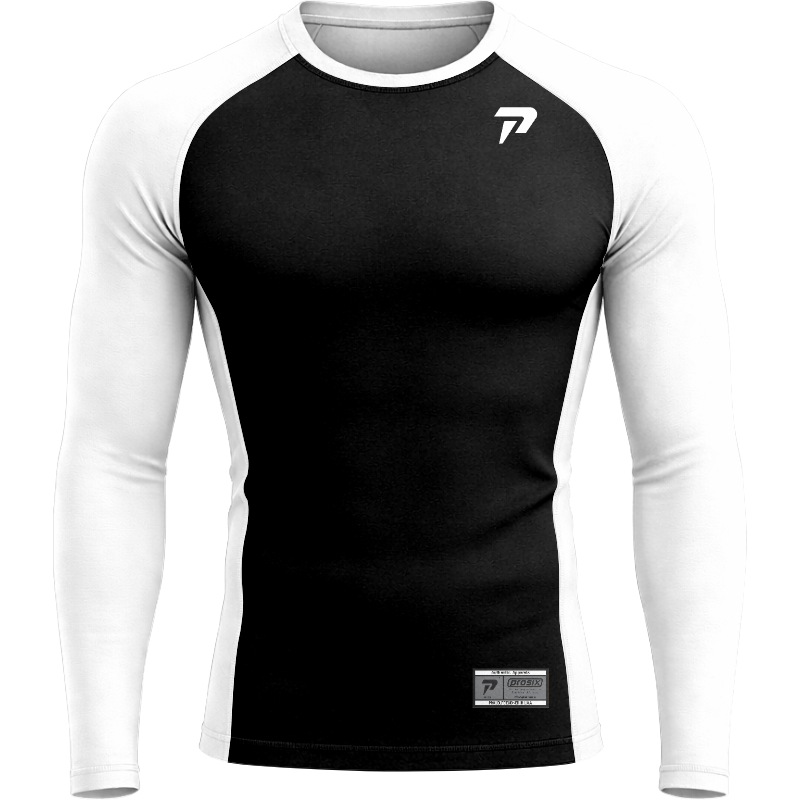
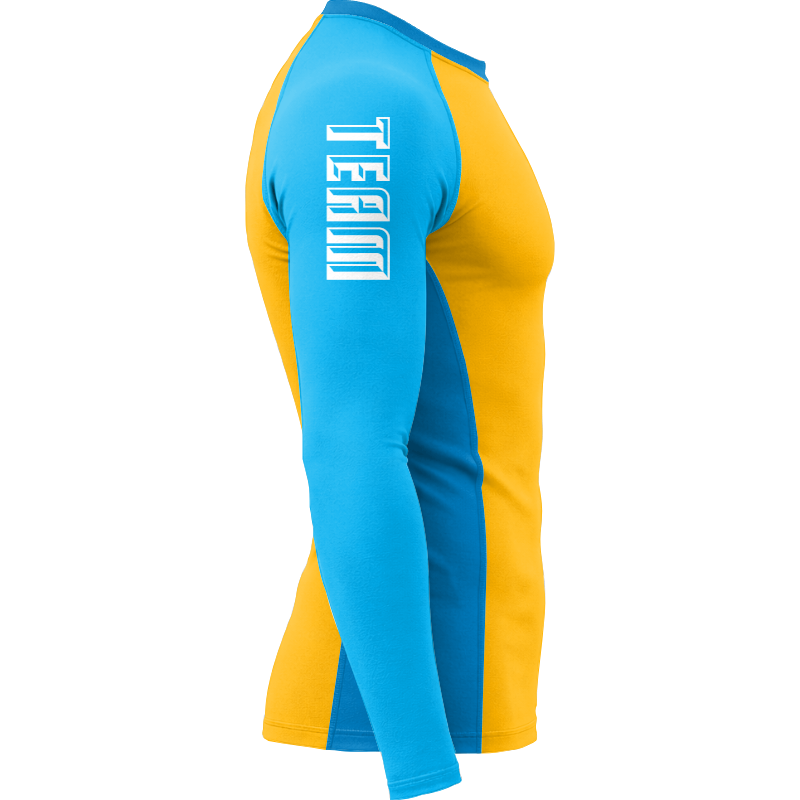
update

diff --git a/public/js/customizer-application.js b/public/js/customizer-application.js
@@ -494,8 +494,11 @@ window.addApplicationToSvg = function (layer) {
     }
     const mainSvg = window.getMainSvg();
     if (!mainSvg) { setTimeout(() => addApplicationToSvg(layer), 300); return; }
-    if (mainSvg.querySelector(`#${layer.id}`)) return;
-
+// Purana element remove karo taake fresh rebuild ho
+const existing = mainSvg.querySelector(`#${layer.id}`);
+const existingGroup = mainSvg.querySelector(`#app-group-${layer.id}`);
+if (existing && existingGroup) return; // already properly built
+if (existingGroup) existingGroup.remove(); // incomplete — rebuild
     let defs = mainSvg.querySelector('defs');
     if (!defs) {
         defs = document.createElementNS('http://www.w3.org/2000/svg', 'defs');
@@ -544,11 +547,14 @@ window.addApplicationToSvg = function (layer) {
     text.setAttribute('paint-order', 'stroke fill');
     text.setAttribute('stroke-linejoin', 'miter');
     text.style.cursor = 'move';
-    text.textContent = layer.text;
+ text.textContent = layer.text;
+if (layer.letterSpacing) text.style.letterSpacing = layer.letterSpacing + 'px';
 
     layerGroup.appendChild(text);
+
+
     makeDraggable(text, layer);
-    text.addEventListener('click', e => { e.stopPropagation(); selectApplicationLayer(layer.id); });
+layerGroup.addEventListener('click', e => { e.stopPropagation(); selectApplicationLayer(layer.id); });
 
     _applyFlipTransform(layer, mainSvg);
 
@@ -940,7 +946,7 @@ gap:10px;
 width:100%;
 padding:8px 10px;
 margin-bottom:6px;
-background:${isActive ? '#5a5a5a' : '#7a7a7a'};
+background:${isActive ? '#383838' : '#858585'};
 color:#fff;
 border:none;
 border-radius:0;
@@ -1656,7 +1662,7 @@ user-select:none;
     }
 
     // ============================================================
-    // =================== SHOW TEXT LAYER CONTROLS ===================
+    // =================== SHOW TEXT LAYER CONTROLS ===============
     // ============================================================
 
     function showTextLayerControls(layer) {
@@ -1708,7 +1714,13 @@ user-select:none;
             if (opacitySlider && layer.patternOpacity) { opacitySlider.value = layer.patternOpacity; document.getElementById('patternOpacityValueTab').textContent = layer.patternOpacity; }
             renderTextPatternPalette(layer.patternSvg);
         }
-
+// ✅ FIX: Outline count restore per layer
+const outline1Input = document.querySelector('#outline1Section input[type="number"]');
+const outline2Input = document.querySelector('#outline2Section input[type="number"]');
+const shadowInput = document.querySelector('#shadowSection input[type="number"]');
+if (outline1Input) outline1Input.value = layer.strokeWidth || 3;
+if (outline2Input) outline2Input.value = layer.strokeWidth2 || 3;
+if (shadowInput) shadowInput.value = layer.shadowOffset || 3;
         switchTextCustomizationTab('colors');
     }
 
@@ -1834,11 +1846,21 @@ user-select:none;
             if (layer.fontFamily) btn.style.fontFamily = layer.fontFamily;
         }
 
-        if (posX) appFillSlider(posX);
-        if (posY) appFillSlider(posY);
+      if (posX) appFillSlider(posX);
+if (posY) appFillSlider(posY);
 
-        // Restore rotation wheel
-        if (window.setWheelAngle) window.setWheelAngle(layer.rotation || 0);
+// ✅ FIX: Letter Spacing restore
+const allLetterSpacingInputs = document.querySelectorAll('input[oninput*="updateLetterSpacing"]');
+allLetterSpacingInputs.forEach(inp => { inp.value = layer.letterSpacing || 0; });
+
+// ✅ FIX: Width/Height restore
+const allWidthInputs = document.querySelectorAll('input[oninput*="updateTextScale(\'x\'"]');
+allWidthInputs.forEach(inp => { inp.value = Math.round((layer.scaleX || 1) * 100); });
+const allHeightInputs = document.querySelectorAll('input[oninput*="updateTextScale(\'y\'"]');
+allHeightInputs.forEach(inp => { inp.value = Math.round((layer.scaleY || 1) * 100); });
+
+// Restore rotation wheel
+if (window.setWheelAngle) window.setWheelAngle(layer.rotation || 0);
     };
 
     window.updateFontSize = function (value) {
@@ -1911,17 +1933,27 @@ user-select:none;
         setTimeout(() => _showPlusIcon(layer.id), 30);
     };
 
-    window.updateOutlineStroke = function (type, value) {
-        if (!window.currentApplicationLayer) return;
-        const layer = findLayerById(window.currentApplicationLayer);
-        if (!layer) return;
-        const textEl = document.getElementById(layer.id);
-        if (!textEl) return;
-        if (type === 'outline1') { textEl.setAttribute('stroke-width', value); layer.strokeWidth = parseInt(value); }
+   window.updateOutlineStroke = function (type, value) {
+    if (!window.currentApplicationLayer) return;
+    const layer = findLayerById(window.currentApplicationLayer);
+    if (!layer) return;
+    const textEl = document.getElementById(layer.id);
+    if (!textEl) return;
+    if (type === 'outline1') {
+        textEl.setAttribute('stroke-width', value);
+        layer.strokeWidth = parseInt(value);
+    }
+    if (type === 'outline2') {
+        layer.strokeWidth2 = parseInt(value);
         const outlines = document.querySelectorAll(`[data-outline-for="${layer.id}"]`);
-        if (type === 'outline2' && outlines.length) outlines[0].setAttribute('stroke-width', value);
-        if (window.saveCustomizations) window.saveCustomizations();
-    };
+        if (outlines.length) outlines[0].setAttribute('stroke-width', value);
+    }
+    if (type === 'shadow') {
+        layer.shadowOffset = parseInt(value);
+        applyOutlineStyleToText(layer.id);
+    }
+    if (window.saveCustomizations) window.saveCustomizations();
+};
 
     window.selectStrokeLinecap = function (value, btn) {
         document.querySelectorAll('[id^="cap-"]').forEach(b => b.classList.remove('selected'));
@@ -2706,9 +2738,15 @@ window.initializeApplicationsOnLoad = function () {
     const svg = window.getMainSvg();
     if (!svg) { setTimeout(window.initializeApplicationsOnLoad, 300); return; }
 
-    svg.querySelectorAll('[id^="app-group-"]').forEach(g => g.remove());
-    svg.querySelectorAll('#application-group').forEach(g => g.remove());
-    svg.querySelectorAll('[data-outline-for]').forEach(e => e.remove());
+svg.querySelectorAll('[id^="app-group-"]').forEach(g => g.remove());
+svg.querySelectorAll('#application-group').forEach(g => g.remove());
+svg.querySelectorAll('[data-outline-for]').forEach(e => e.remove());
+
+// ✅ Defs mein se clip paths bhi clean karo
+const defs = svg.querySelector('defs');
+if (defs) {
+    defs.querySelectorAll('[id^="clip-app-"]').forEach(c => c.remove());
+}
 
     Object.entries(window.applicationsApplied[view]).forEach(([partId, layers]) => {
         layers.forEach(layer => {
@@ -2781,8 +2819,8 @@ window.reorderSvgLayers = function (view, partId, orderedLayers) {
 
         const cx = 80, cy = 80, r = 68;
         const circumference = 2 * Math.PI * r;
-        const snapPoints = [0, 90, 180, 270, 360];
-        const snapThreshold = 25;
+       const snapPoints = [0, 90, 180, 270, 360];
+const snapThreshold = 5;
 
         let angle = 0, dragging = false, startAngle = 0, startRot = 0;
 
@@ -2948,8 +2986,5 @@ window.bringApplicationLayersToTop = function () {
 
     console.log('✅ Application layers brought to top:', appGroups.length);
 };
-
-
-
 
 })();